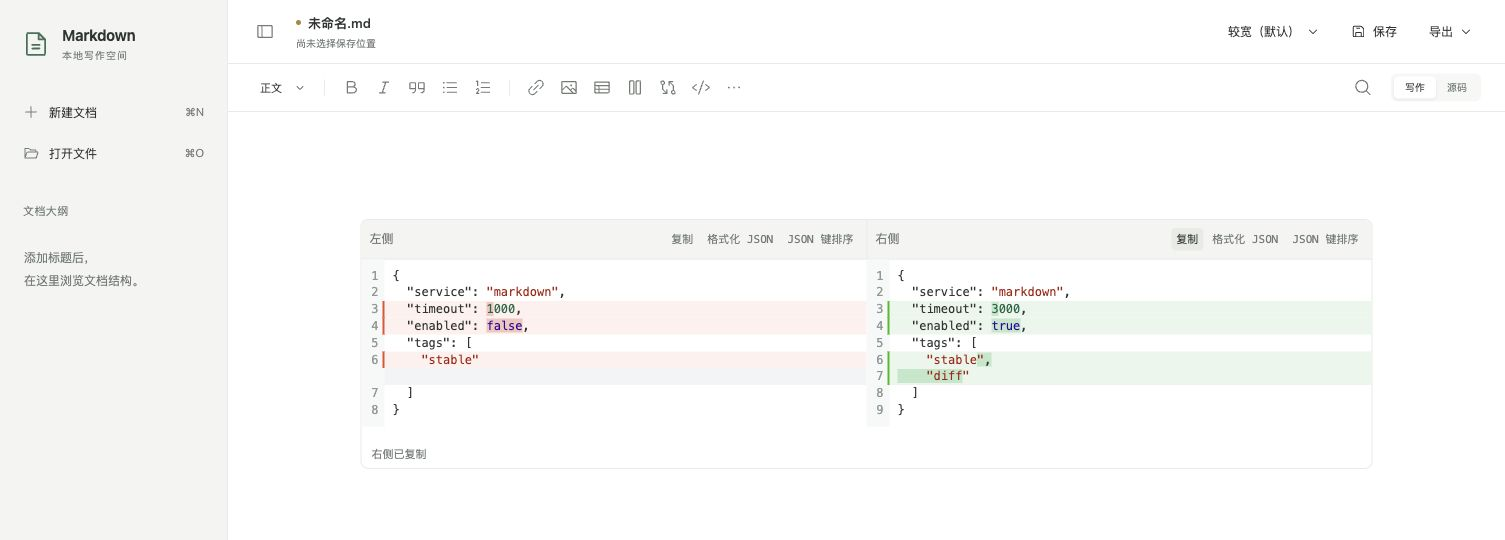
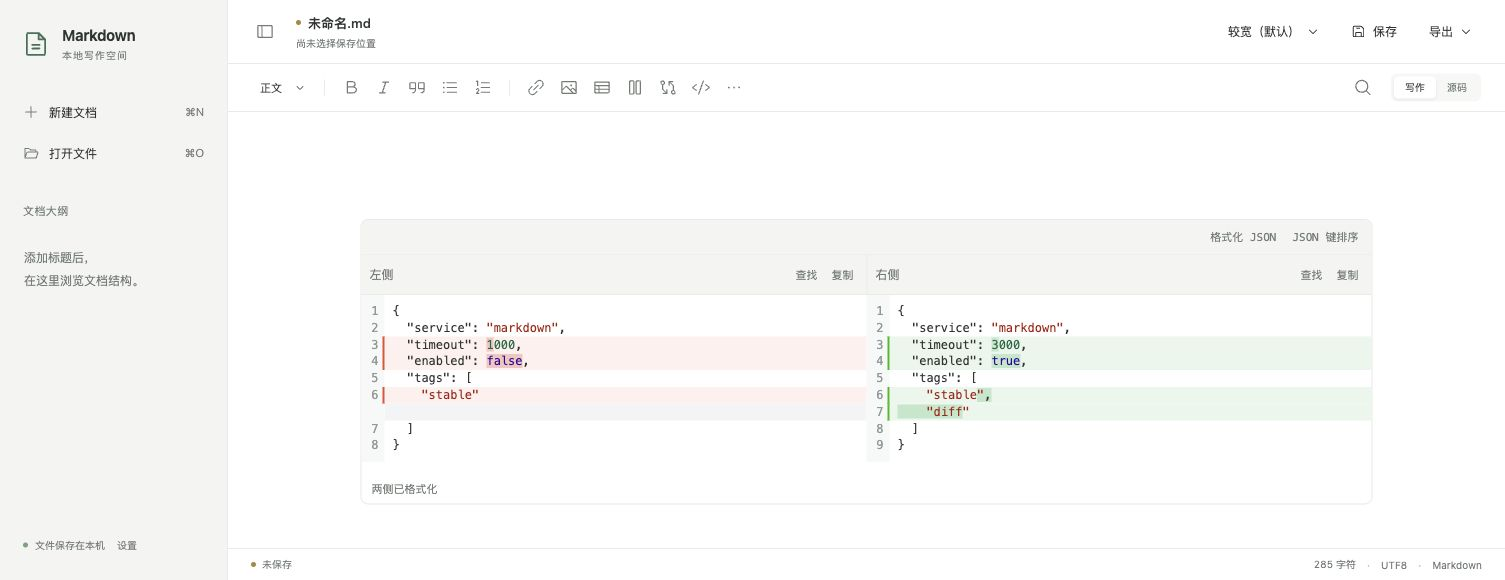
feat: apply diff JSON actions to both sides together
sa: validate both sides before one atomic document update and undo
doc: update diff toolbar behavior and screenshot
cfg: none
test: 49 tests, native verification and browser dual-side formatting passed

diff --git a/web/src/diff-widget.ts b/web/src/diff-widget.ts
@@ -50,7 +50,9 @@ export class DiffWidget extends WidgetType {
     const status = document.createElement("div");
     status.className = "diff-status";
     status.setAttribute("role", "status");
-    el.append(header, body, status);
+    const toolbar = document.createElement("div");
+    toolbar.className = "diff-toolbar";
+    el.append(toolbar, header, body, status);
     const ui: DiffUI = {
       block: this.block,
       syncing: false,
@@ -94,9 +96,6 @@ export class DiffWidget extends WidgetType {
         ]),
         EditorView.updateListener.of((update) => {
           if (!update.docChanged || ui.syncing) return;
-          const isolate = update.transactions.some((tr) =>
-            tr.isUserEvent("input.diff.format"),
-          );
           queueMicrotask(() => {
             if (ui.disposed || !ui.merge) return;
             const markup = diffMarkup(
@@ -107,7 +106,6 @@ export class DiffWidget extends WidgetType {
             actions.anchor(ui.block.from);
             parent.dispatch({
               changes: { from: ui.block.from, to: ui.block.to, insert: markup },
-              annotations: isolate ? isolateHistory.of("full") : [],
               userEvent: "input.diff",
             });
           });
@@ -120,6 +118,46 @@ export class DiffWidget extends WidgetType {
         highlightChanges: true,
         gutter: true,
       });
+      // 两侧先全部校验，再用一次文档事务提交；任意一侧无效时保留全部原文。
+      for (const [name, label] of [
+        ["format", "格式化 JSON"],
+        ["sort", "JSON 键排序"],
+      ]) {
+        const button = document.createElement("button");
+        button.type = "button";
+        button.textContent = label;
+        button.title = "同时处理左右两侧";
+        button.setAttribute("aria-label", label);
+        button.onclick = () => {
+          const values: string[] = [];
+          for (const [index, view] of [ui.merge!.a, ui.merge!.b].entries()) {
+            try {
+              values.push(
+                formatDiffJSON(view.state.doc.toString(), name === "sort"),
+              );
+            } catch (error) {
+              status.textContent =
+                (index === 0 ? "左侧" : "右侧") +
+                "：" +
+                (error instanceof Error ? error.message : String(error)) +
+                "；两侧均未修改";
+              return;
+            }
+          }
+          const markup = diffMarkup(values[0], values[1]);
+          if (markup !== ui.block.original) {
+            actions.anchor(ui.block.from);
+            parent.dispatch({
+              changes: { from: ui.block.from, to: ui.block.to, insert: markup },
+              annotations: isolateHistory.of("full"),
+              userEvent: "input.diff.format",
+            });
+          }
+          status.textContent =
+            name === "sort" ? "两侧已按键排序" : "两侧已格式化";
+        };
+        toolbar.append(button);
+      }
       for (const [index, label] of ["左侧", "右侧"].entries()) {
         const tools = document.createElement("div");
         tools.className = "diff-side-tools";
@@ -129,8 +167,6 @@ export class DiffWidget extends WidgetType {
         for (const [name, text] of [
           ["find", "查找"],
           ["copy", "复制"],
-          ["format", "格式化 JSON"],
-          ["sort", "JSON 键排序"],
         ]) {
           const button = document.createElement("button");
           button.type = "button";
@@ -162,19 +198,6 @@ export class DiffWidget extends WidgetType {
                   }
                 }
                 status.textContent = label + "已复制";
-              } else {
-                const formatted = formatDiffJSON(source, name === "sort");
-                view.dispatch({
-                  changes: {
-                    from: 0,
-                    to: view.state.doc.length,
-                    insert: formatted,
-                  },
-                  annotations: Transaction.addToHistory.of(false),
-                  userEvent: "input.diff.format",
-                });
-                status.textContent =
-                  label + (name === "sort" ? "已按键排序" : "已格式化");
               }
             } catch (error) {
               status.textContent =

diff --git a/web/tests/editor.test.ts b/web/tests/editor.test.ts
@@ -433,15 +433,20 @@ describe("embedded diff editor", () => {
     expect(disk()).toBe(raw);
     expect(left.state.doc.toString()).toBe('{"z":1,"a":2}');
     (
-      widget.querySelector(
-        '[aria-label="左侧JSON 键排序"]',
-      ) as HTMLButtonElement
+      widget.querySelector('[aria-label="JSON 键排序"]') as HTMLButtonElement
     ).click();
     await new Promise((resolve) => setTimeout(resolve, 0));
     expect(parseDiffs(ed.view.state.doc.toString())[0].left).toBe(
       '{\n  "a": 2,\n  "z": 1\n}',
     );
-    expect(right.state.doc.toString()).toBe('{"z":3}');
+    expect(right.state.doc.toString()).toBe('{\n  "z": 3\n}');
+    ed.undo();
+    expect(disk()).toBe(raw);
+    (
+      widget.querySelector('[aria-label="格式化 JSON"]') as HTMLButtonElement
+    ).click();
+    expect(left.state.doc.toString()).toBe('{\n  "z": 1,\n  "a": 2\n}');
+    expect(right.state.doc.toString()).toBe('{\n  "z": 3\n}');
     ed.undo();
     expect(disk()).toBe(raw);
     right.dispatch({
@@ -449,11 +454,10 @@ describe("embedded diff editor", () => {
     });
     await new Promise((resolve) => setTimeout(resolve, 0));
     (
-      widget.querySelector(
-        '[aria-label="右侧格式化 JSON"]',
-      ) as HTMLButtonElement
+      widget.querySelector('[aria-label="格式化 JSON"]') as HTMLButtonElement
     ).click();
     expect(right.state.doc.toString()).toBe("not json");
+    expect(left.state.doc.toString()).toBe('{"z":1,"a":2}');
     expect(widget.querySelector('[role="status"]')!.textContent).not.toBe("");
     ed.undo();
     expect(disk()).toBe(raw);

diff --git a/Sources/DesktopHost/WebVerification.swift b/Sources/DesktopHost/WebVerification.swift
@@ -87,8 +87,9 @@ final class WebVerification {
         if(window.getSelection().toString()!=='900719925474099312345')throw new Error('Diff find did not select matching text');
         search.dispatchEvent(new KeyboardEvent('keydown',{key:'Escape',bubbles:true,cancelable:true}));await pause();
         const edited=ed.view.state.doc.toString();
-        widget.querySelector('[aria-label="左侧JSON 键排序"]').click();await pause();
+        widget.querySelector('[aria-label="JSON 键排序"]').click();await pause();
         const data=JSON.parse(ed.view.state.doc.toString().split('```md-diff\n')[1].split('\n```')[0]);
+        if(data.right!=='{\n  "a": 2\n}')throw new Error('Global JSON sort did not format right side');
         if(data.left.indexOf('"a"')>data.left.indexOf('"z"') || !data.left.includes('900719925474099312345'))throw new Error('JSON sort lost order or precision');
         left.dispatchEvent(new KeyboardEvent('keydown',{key:'z',metaKey:true,bubbles:true,cancelable:true}));await pause();
         if(ed.view.state.doc.toString()!==edited)throw new Error('Diff sort undo failed');

diff --git a/web/src/style.css b/web/src/style.css
@@ -1415,6 +1415,7 @@ footer svg {
   margin-right: auto;
   color: var(--muted);
 }
+.diff-toolbar button,
 .diff-side-tools button {
   font-family: inherit;
   font-size: 11px;
@@ -1426,6 +1427,7 @@ footer svg {
   color: var(--muted);
   cursor: pointer;
 }
+.diff-toolbar button:hover,
 .diff-side-tools button:hover {
   background: var(--line);
   color: var(--text);
@@ -1490,4 +1492,13 @@ footer svg {
 .md-diff .cm-search .cm-textfield {
   max-width: 100%;
   box-sizing: border-box;
+}
+
+.diff-toolbar {
+  display: flex;
+  justify-content: flex-end;
+  gap: 6px;
+  padding: 6px 8px;
+  border-bottom: 1px solid var(--line);
+  background: var(--side);
 }

diff --git a/README.md b/README.md
@@ -61,7 +61,7 @@ CommonMark 定义了原始 HTML 的解析规则，但不能据此认为 HTML 标
 
 - 基于 CodeMirror MergeView，参考 IDEA 的双栏交互：对齐对应行，标出新增、删除，并高亮行内变化；并非复用 IDEA 的内部算法。
 - 两侧支持独立查找：焦点位于对应代码侧时按 ⌘F / Ctrl+F，或点击该侧「查找」；支持上一个 / 下一个、大小写、正则和替换，Esc 关闭。
-- 两侧右上角各有「复制」「格式化 JSON」「JSON 键排序」按钮，只作用于所在侧。排序递归处理对象键，保留数组顺序及长整数原始精度；无效 JSON 会提示并保留原文。
+- 组件右上角的「格式化 JSON」「JSON 键排序」一次处理左右两侧，整体一步撤销；查找与复制仍分别作用于所在侧。排序递归处理对象键，保留数组顺序及长整数原始精度；任一侧 JSON 无效时提示对应侧，两侧均保留原文。
 - 与正文共用撤销 / 重做历史，格式化和排序可单独撤销。长代码不自动折行，支持滚动。
 - 内容保存为 `md-diff` 专用代码围栏，内部 JSON 保存 `left` / `right` 字符串。普通 Markdown 渲染器会将其作为代码块显示；本应用导出 HTML / PDF 时保留双栏和差异高亮。
 
